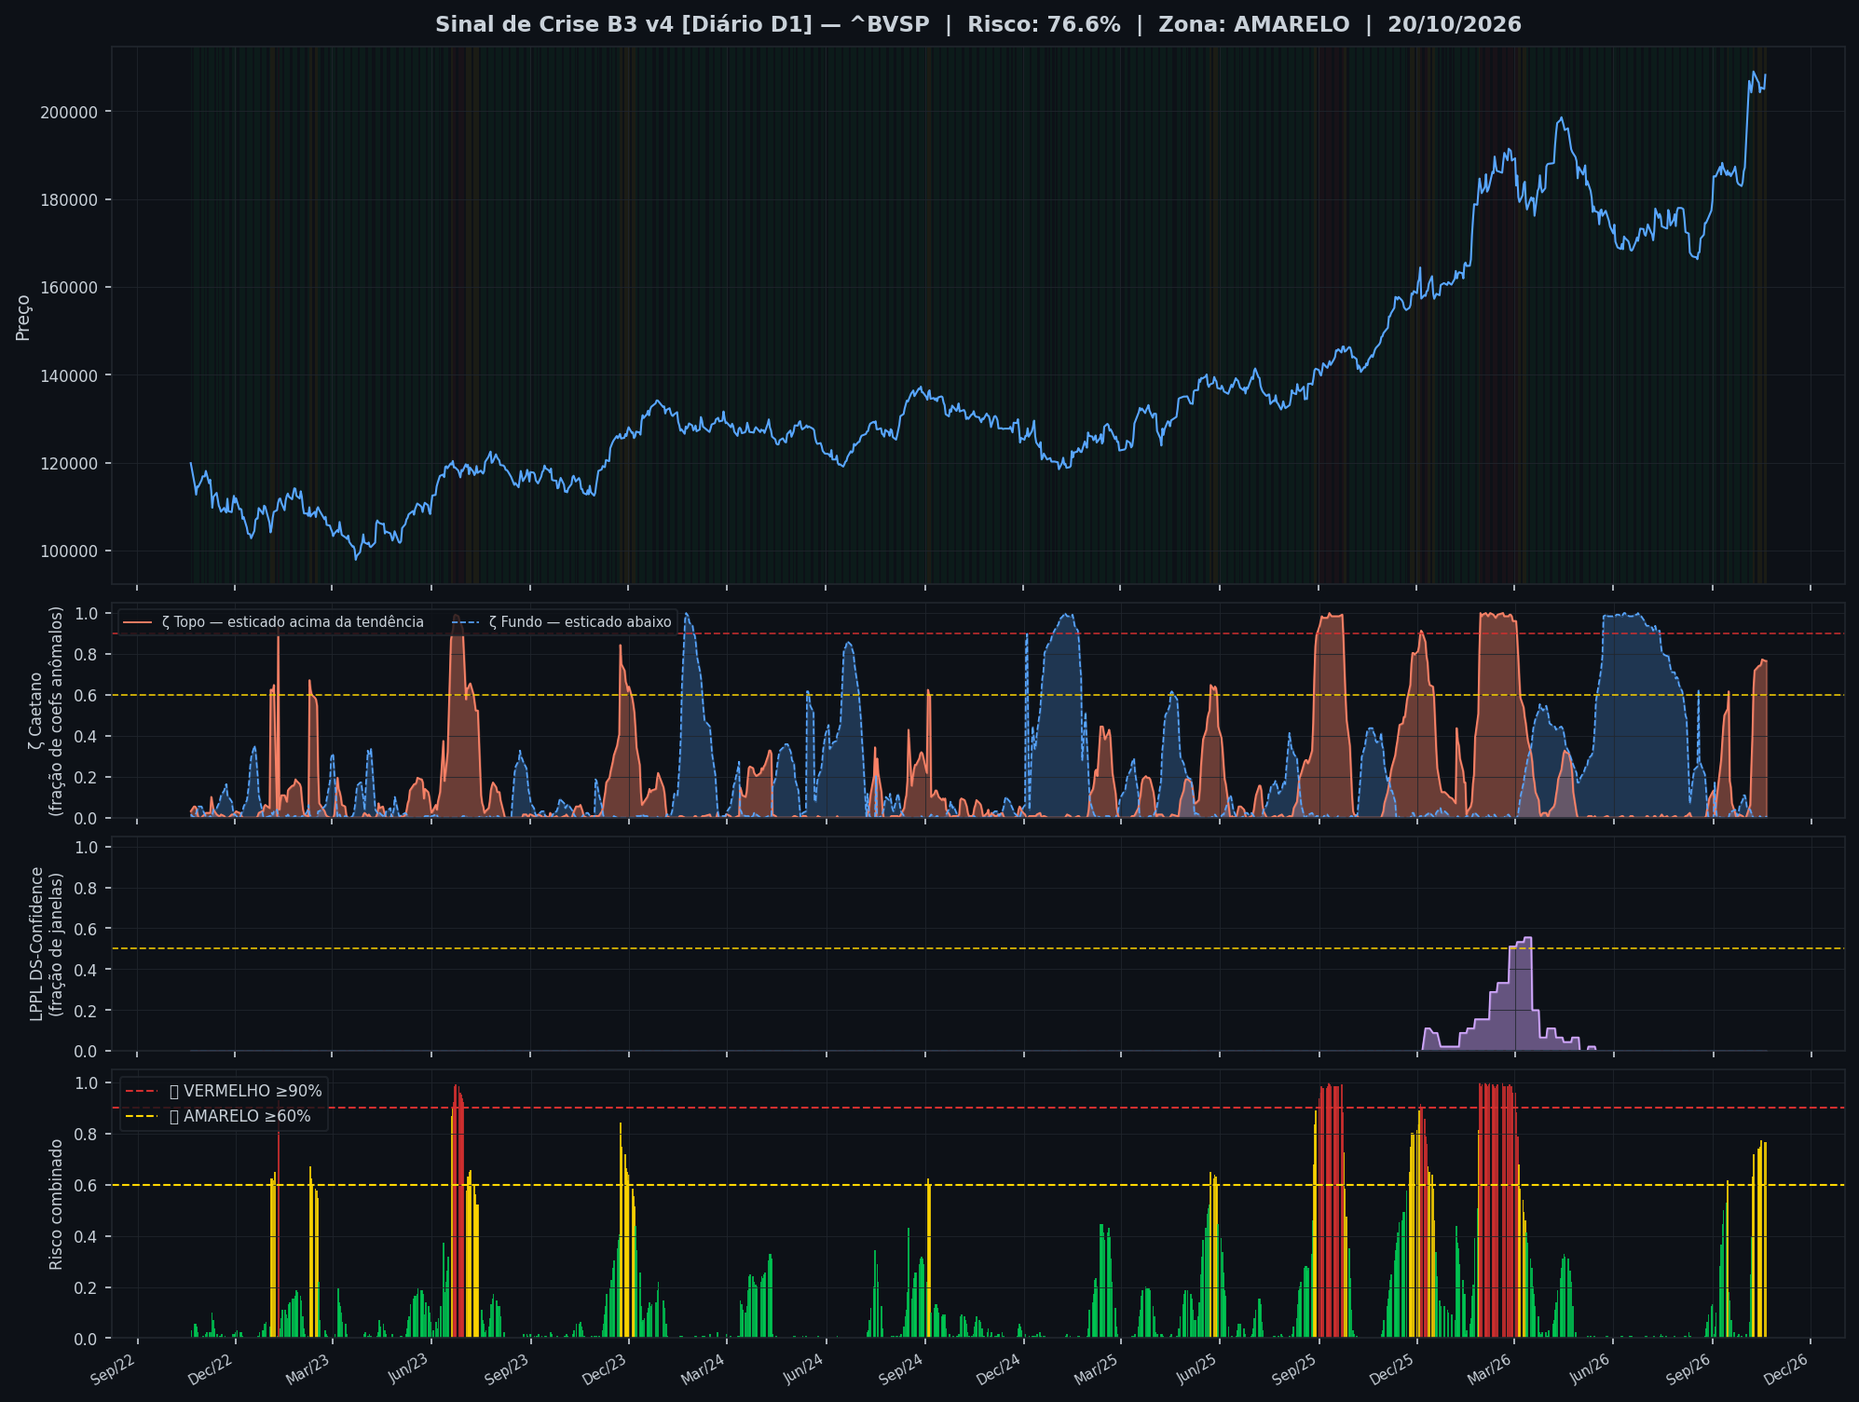
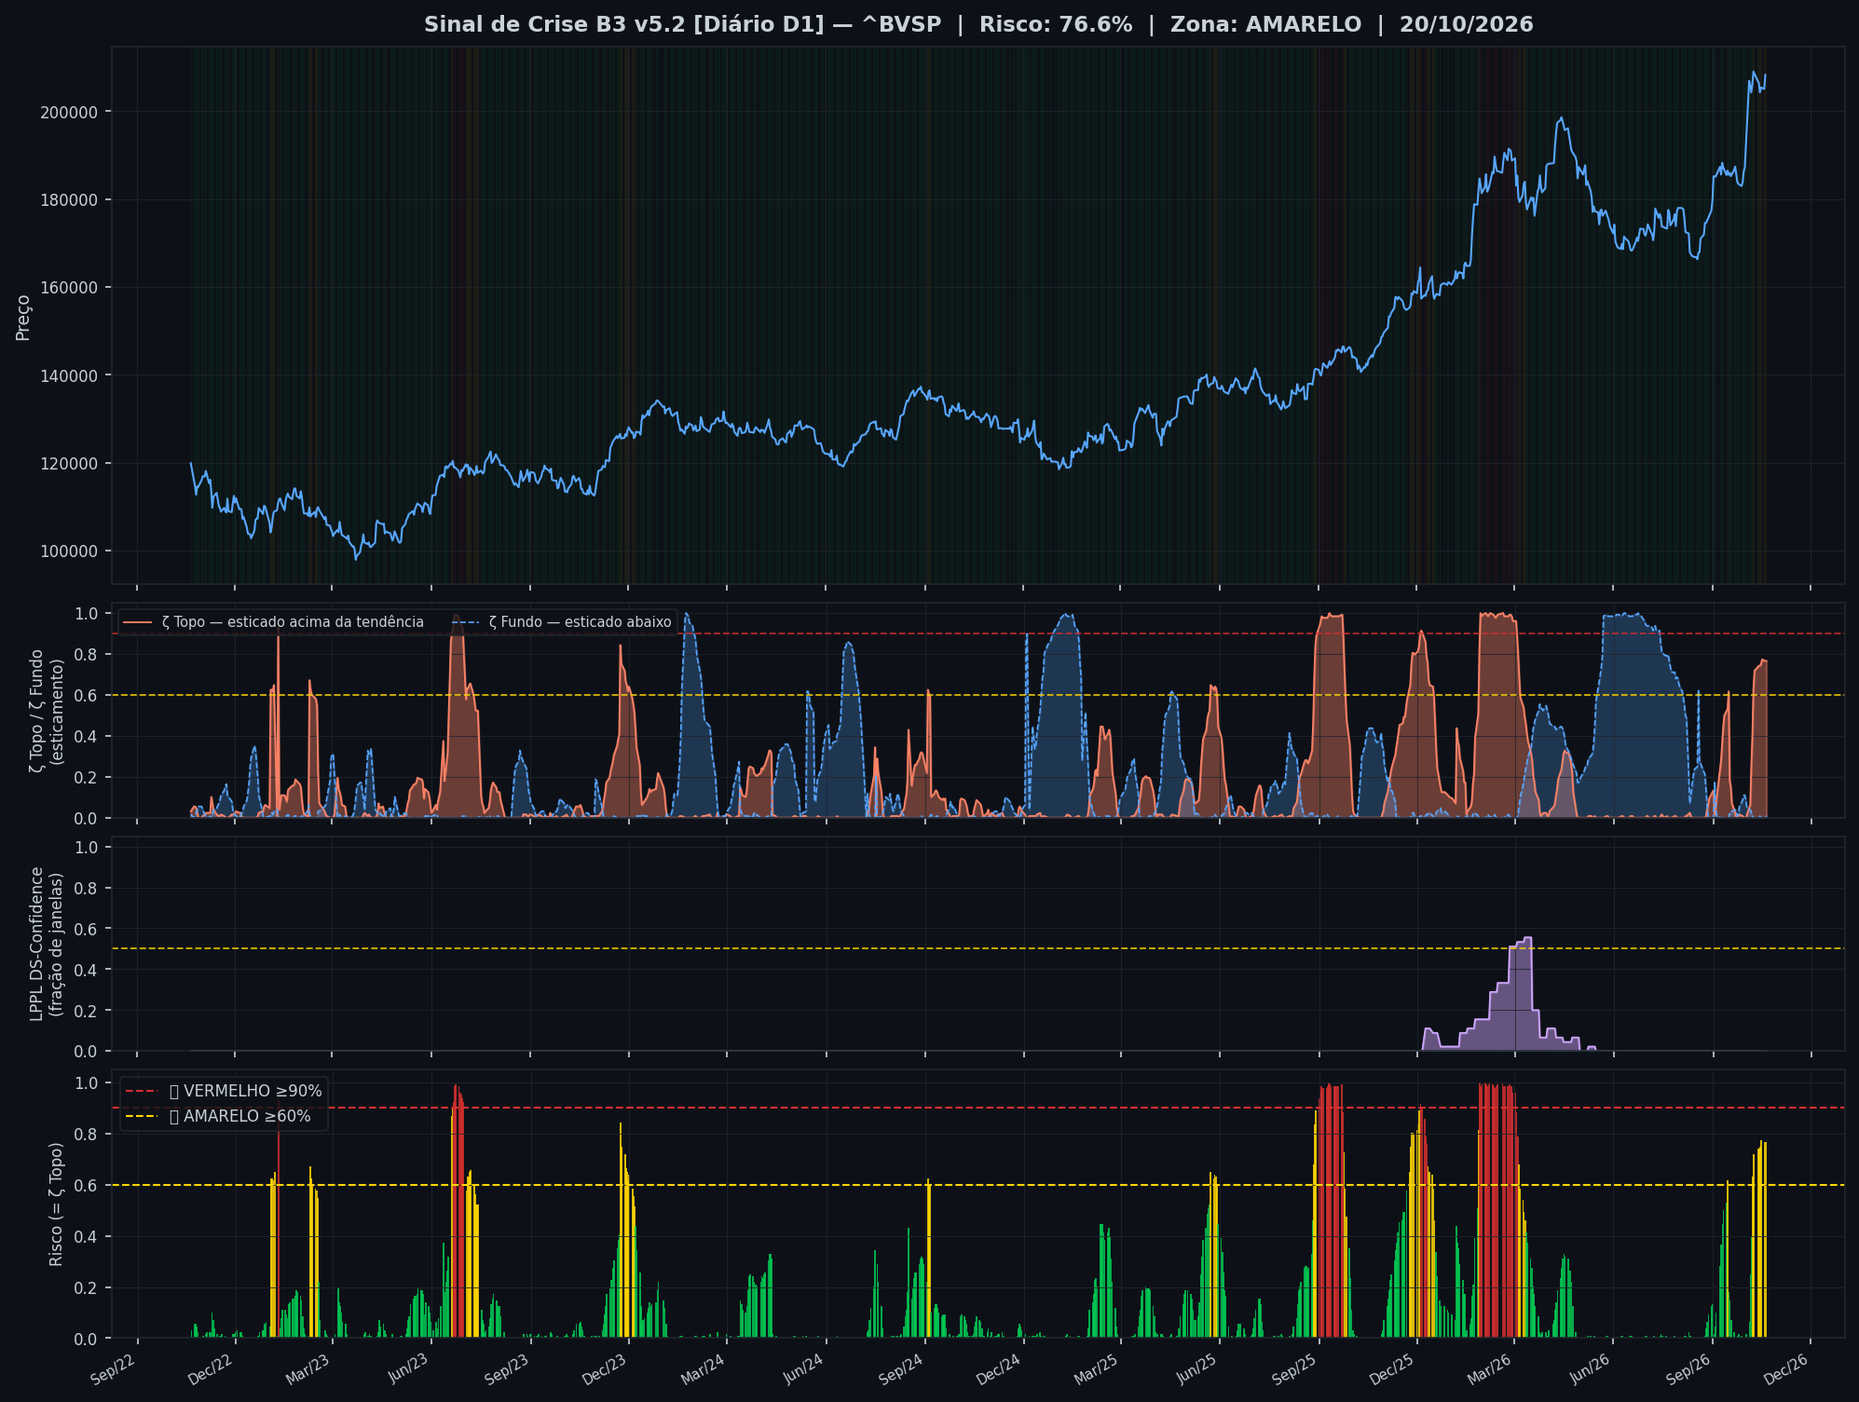
🤖 Auto: Sinal 20/10/2026 20:17

Changed region(s): [[0.4662, 0.0, 0.8391, 0.0312], [0.2175, 0.0, 0.4351, 0.0312], [0.0, 0.4684, 0.0311, 0.5621]]

diff --git a/content/metodologia.md b/content/metodologia.md
@@ -3,99 +3,169 @@ title: Metodologia
 tags: [metodologia]
 ---
 
-# 📖 Metodologia — v5.1
+# 📖 Metodologia — v5.2
 
-## IMA Wavelet (Caetano)
+> [!abstract] Em uma frase
+> O Sinal B3 mede **o quanto o Ibovespa está esticado em relação à própria tendência**, olhando ao mesmo tempo para várias escalas de tempo. Esticado para cima é **ζ Topo**; esticado para baixo é **ζ Fundo**. Os momentos úteis para agir não são quando o ζ está alto, e sim **quando ele entra numa faixa ou começa a desinflar**.
 
-O **Índice de Mudanças Abruptas** segue Caetano & Yoneyama
-(Physica-A 383, 2007, 519-526; livro *Mudanças Abruptas no Mercado
-Financeiro*, Érica, 2013): a série de preços passa por detrending duplo
-(tendência log-linear + componente cosseno) e o ruído residual é
-decomposto pela **Transformada Wavelet Contínua com Chapéu Mexicano**.
-O índice segue o artigo de 2009: ζ(t) = n(t)/N — a fração dos
-coeficientes wavelet (normalizados por escala, 32 escalas × 4 barras)
-que ultrapassam o corte de 0,8σ na faixa mais recente. A escala é
-**absoluta**: ζ=0,90 tem o mesmo significado hoje e daqui a dois anos.
+> [!warning] Antes de tudo
+> Nada aqui é recomendação de investimento. São **estatísticas de 26 anos de Ibovespa** (2000–2026) que mostram em que situações as chances ficaram historicamente a favor ou contra. Nenhuma situação tem 100% de acerto, e o passado não garante o futuro. Use como **filtro de contexto** para o seu método, com stop e gestão de risco.
 
-**Leitura correta (v5.1).** Na borda direita da série — que é o que um
-sinal em tempo real enxerga — o coeficiente do Chapéu Mexicano é positivo
-quando o preço termina *acima* da tendência. Por isso o ζ publicado
-(coeficientes positivos) mede **esticamento acima da tendência**: sobe em
-altas fortes e cai em quedas. Exemplo real: a alta de 187 mil para 209 mil
-pontos em out/2026 levou o ζ de 2% para 77%. Ele é um indicador de **risco
-de reversão de topo**, não de "queda em curso".
+---
 
-Validação: replica o Kruskal-Wallis do artigo em 2003–2008
-(p=0,007/0,002) — topos com ζ≥0,90 precederam quedas maiores e mais
-longas; em 2015–2025, AUC causal 0,58 contra 0,50 do motor anterior.
-Não serve para cravar a data do crash (teste de Molchan negativo).
+## 1. Como o modelo funciona (sem matemática)
 
-O espectrograma histórico (página de gráficos) é calculado com a série
-inteira, ou seja, *com dados futuros*: ali cada data é vista do meio da
-janela. O ζ em tempo real, na borda, concorda só parcialmente com ele
-(correlação ~0,4 em simulação) — não compare os dois diretamente.
+Imagine o gráfico do Ibovespa dos últimos 252 pregões (um ano).
 
-## LPPL DS-Confidence (Sornette)
+**Passo 1 — tirar a tendência.** O modelo traça a curva que melhor descreve a direção do último ano (uma tendência exponencial) e um ciclo lento por cima dela. O que sobra é o **resíduo**: quanto o preço está acima ou abaixo do "caminho normal".
 
-Bolhas especulativas seguem a **Log-Periodic Power Law** de Sornette:
-crescimento super-exponencial com oscilações log-periódicas acelerando
-rumo ao tempo crítico *tc*. A v4 implementa o indicador de confiança do
-**Financial Crisis Observatory** (ETH-Zurich):
+**Passo 2 — olhar o resíduo com 32 lupas.** A *transformada wavelet* (com a função **Chapéu Mexicano**, como no método do Prof. Caetano) funciona como um conjunto de lupas de tamanhos diferentes: algumas enxergam movimentos de poucos dias, outras de várias semanas. Cada lupa responde a uma pergunta: *"na minha escala, o preço de agora está anormalmente acima ou abaixo da tendência?"*
 
-1. Reformulação de Filimonov & Sornette (2013): parâmetros lineares
-   (A, B, C₁, C₂) resolvidos por mínimos quadrados; otimização apenas
-   em (tc, m, ω).
-2. Ajuste em **45 janelas** (60 a 500 pregões, passo de 10) terminando na
-   mesma data (eram 10 até a v5.0, o que fazia a confiança andar em degraus
-   de 10%).
-3. Cada ajuste só é aceito se passar nos filtros de qualificação:
-   0.05 < m < 0.95 · 6 < ω < 13 · tc plausível ·
-   ≥ 2.5 oscilações · damping ≥ 0.5 · SSE < 60% do ajuste linear
-   (o modelo precisa explicar mais que uma simples tendência).
-4. **Confiança = fração de janelas com ajuste válido**, separada pelo
-   sinal de B: **bolha** (B < 0, alta super-exponencial → risco de crash) e
-   **antibolha** (B > 0, queda super-exponencial → risco de repique). O
-   mesmo ajuste serve aos dois, como no DS LPPLS do FCO.
+**Passo 3 — contar quantas lupas concordam.** O **ζ (zeta)** é simplesmente a **porcentagem das lupas** que, nos últimos 4 pregões, enxergam o preço esticado além de um limite (0,8 desvio):
 
-Diferente da v3 (que media o número de oscilações de um único fit e
-saturava em ~87% em qualquer tendência), a confiança v4 fica em ~0%
-em séries sem estrutura de bolha e sobe apenas quando várias escalas
-concordam.
+- **ζ Topo** = % das lupas que veem o preço **esticado para cima**.
+- **ζ Fundo** = % das lupas que veem o preço **esticado para baixo**.
 
-## Sinal combinado e zonas
+ζ Topo = 90% quer dizer que **quase todas as escalas** concordam: o preço subiu demais, rápido demais, em relação à tendência. É a fórmula do artigo de Caetano & Yoneyama (2009): ζ = n/N.
 
-Na v5.1 o risco é o próprio ζ Topo, tanto no diário quanto no intraday.
-A média ponderada antiga (60% ζ + 40% LPPL) foi abandonada: o LPPL fica em
-0% na maior parte do tempo, então o risco diário nunca passava de 60% e o
-🔴 era matematicamente inalcançável. O LPPL continua publicado como
-evidência complementar de bolha. As zonas usam
-**histerese**: entra em 🟡/🔴 ao cruzar o limiar de entrada e só sai ao
-cruzar o de saída (10 p.p. abaixo), eliminando o flip-flop diário.
+> [!example] Exemplo real
+> Em outubro de 2026 o Ibovespa foi de 187 mil para 209 mil pontos em poucos dias. O ζ Topo saiu de 2% para 77%: a maioria das escalas passou a enxergar o preço muito acima da tendência.
 
-## Backtest e calibração
+### O LPPL (Prof. Sornette)
 
-Backtest 15y do ^BVSP (calibrado em —):
+É um segundo modelo, independente. Procura o **formato** de bolha: subida que acelera cada vez mais (super-exponencial), com oscilações que ficam mais rápidas. Ele testa 45 janelas de tempo diferentes (de 60 a 500 pregões) e mede **em quantas delas** o formato de bolha aparece:
 
-| Métrica | 🟡 AMARELO | 🔴 VERMELHO |
-|---|---|---|
-| Limiar de entrada (histerese −10 p.p. na saída) | 60% | 90% |
-| Crises detectadas | —/— | —/— |
-| Falsos alarmes/ano | — | — |
-| Antecedência média | — dias | — dias |
+- **LPPL bolha** — alta acelerando (risco de crash).
+- **LPPL antibolha** — queda acelerando (risco de repique forte).
 
-Pesos em uso: **100% ζ + 0% LPPL**.
+Abaixo de ~30% é ruído normal (mesmo séries aleatórias chegam a 20%). Acima de 50% é evidência forte. O LPPL ainda não tem estatística própria de longo prazo; por isso é exibido como **informação complementar** e não define a zona.
+
+---
+
+## 2. O que 26 anos de dados mostram
+
+Estudo com **6.370 pregões** (2000–2026). O ζ foi calculado **como teria sido visto em tempo real**, ou seja, só com os dados disponíveis em cada dia. Para cada situação, medimos o que o Ibovespa fez **depois**.
+
+**A referência (um dia qualquer):**
+
+| Horizonte | Subiu | Retorno mediano | Caiu 5%+ em algum momento | Subiu 5%+ em algum momento |
+|---|---|---|---|---|
+| 20 pregões (~1 mês) | 56% | +1,1% | 31% | 41% |
+| 60 pregões (~3 meses) | 60% | +3,3% | 52% | 66% |
+
+**As situações que fizeram diferença nos dois períodos testados (2000–2014 e 2015–2026):**
+
+| Situação | O que aconteceu depois | vs. referência | Confiança |
+|---|---|---|---|
+| 🚀 **ζ Topo entra na faixa 30–60%** | Subiu em **68%** das vezes em 60 pregões; subiu 5%+ em **75%** | 60% / 66% | ⭐⭐⭐ (105 casos) |
+| 📉 **ζ Topo desinfla** (cai abaixo de 45% depois de passar de 60%) | Caiu 5%+ em **39%** das vezes em 20 pregões; **60%** em 60 pregões | 31% / 52% | ⭐⭐ (56 casos) |
+| 📉 **ζ Topo desinfla do 🔴** (cai abaixo de 75% depois de passar de 90%) | Caiu 5%+ em **45%** das vezes em 20 pregões | 31% | ⭐⭐ (31 casos) |
+| 🔪 **ζ Fundo dispara** (passa de 90%) | Subiu só **42%** das vezes em 60 pregões; retorno mediano **−1,9%** | 60% / +3,3% | ⭐⭐⭐ (31 casos) |
+| 🌱 **ζ Fundo desinfla** (cai abaixo de 75% depois de passar de 90%) | Subiu em **66%** das vezes em 60 pregões; retorno mediano **+4,8%** | 60% / +3,3% | ⭐ (32 casos) |
+| 🔴 **ζ Topo ≥ 90%** (estar na zona) | Chance de subir mais 5% em 20 pregões cai para **32%** | 41% | ⭐ |
+
+> [!info]- Como ler as estrelas (clique para expandir)
+> Cada situação foi comparada com **5.000 sorteios de datas aleatórias**. ⭐⭐⭐ = no período completo, o resultado ficou entre os **5%** mais extremos dos sorteios, e a direção se repetiu nos dois períodos. ⭐⭐ = entre os **11%** mais extremos, mesma direção nos dois períodos. ⭐ = mesma direção nos dois períodos, mas dentro do que o acaso explica. Como testamos dezenas de combinações, algumas parecem boas por acaso; por isso só entram aqui as que se repetiram nas duas metades da história.
+
+---
+
+## 3. Como usar na prática
+
+Pense no ζ como um **semáforo de contexto** para o seu método, não como um botão de compra e venda.
+
+### Do lado da compra
+
+> [!success] 🚀 Momento de força — ζ Topo subindo para 30–60%
+> O preço começou a se afastar da tendência para cima, mas ainda não esticou demais. **Historicamente, a alta continuou** (68% subiu em 3 meses). Favorece **manter ou montar posição comprada** e dar espaço ao movimento.
+
+> [!tip] 🌱 Fundo se desfazendo — ζ Fundo caindo de volta abaixo de 75%
+> Depois de uma queda forte (ζ Fundo ≥ 90%), o esticamento para baixo começa a desaparecer. É **o melhor momento estatístico para comprar depois de uma queda**: 66% subiu em 3 meses, contra 42% de quem comprou no auge do pânico. A vantagem sobre um dia qualquer é pequena — o ganho real é **evitar comprar cedo demais**.
+
+> [!danger] 🔪 Não segure a faca — ζ Fundo disparando (≥ 90%)
+> Parece barato, mas **historicamente a queda continuou**: só 42% subiu em 3 meses, e metade das vezes ainda caiu mais 5% no mês seguinte. **Espere o ζ Fundo começar a cair.**
+
+### Do lado da proteção / venda
+
+> [!warning] 🟡🔴 Esticado — ζ Topo ≥ 60%
+> O preço está bem acima da tendência. **Isso, sozinho, não é sinal de queda**: o índice continuou subindo tanto quanto num dia qualquer. Mas o **potencial de alta encolhe** (no 🔴, chance de subir mais 5% cai de 41% para 32%). Bom momento para **não aumentar posição, subir o stop e realizar parte do lucro**.
+
+> [!failure] 📉 Esticamento desinflando — ζ Topo caindo
+> **Este é o momento de risco.** Quando o ζ Topo volta para baixo de 45% depois de ter passado de 60% (ou abaixo de 75% depois de 90%), a chance de uma queda de 5%+ no mês seguinte sobe de 31% para 39–45%. Favorece **reduzir exposição comprada ou proteger** (hedge, stop mais curto).
+
+### Neutro
+
+> [!note] 😐 Tudo baixo — ζ Topo e ζ Fundo abaixo de 30%
+> Sem vantagem estatística para nenhum lado. **Siga o seu método normal.**
+
+### Resumo de bolso
+
+| Você vê | Estatística a favor de |
+|---|---|
+| ζ Topo **subindo** para 30–60% | 🟢 manter / comprar |
+| ζ Topo ≥ 60% | 🟡 não aumentar, subir stop, realizar parcial |
+| ζ Topo **caindo** de volta | 🟠 proteger / reduzir |
+| ζ Fundo **disparando** ≥ 90% | ⛔ não comprar ainda |
+| ζ Fundo **caindo** de volta | 🟢 comprar com stop |
+| Tudo abaixo de 30% | ⚪ neutro |
+
+> [!important] Horizonte
+> Estas estatísticas são do **diário (D1)** e valem para **semanas a meses** (20–60 pregões). Para day trade no WIN, use como **viés do dia** (a favor ou contra a direção principal), não como gatilho de entrada. O ζ do intraday (15 min) ainda **não foi validado estatisticamente**.
+
+---
+
+## 4. O que o modelo NÃO faz
+
+- **Não prevê a data do crash.** O ζ alto não diz "vai cair amanhã". O teste de antecipação (Molchan) foi negativo.
+- **Não acerta sempre.** Em 3 de cada 10 vezes, a situação "favorável" deu errado.
+- **Não substitui stop.** As quedas que vêm depois de um ζ Topo desinflando podem ser rápidas.
+- **Não enxerga notícia.** Eventos externos (política, juros, exterior) movem o mercado sem aviso espectral.
+
+---
+
+## 5. As zonas do sinal
+
+| Zona | Entra quando | Sai quando | Significado |
+|---|---|---|---|
+| 🟢 VERDE | — | — | Preço na faixa normal em torno da tendência |
+| 🟡 AMARELO | ζ Topo ≥ 60% | ζ Topo < 45% | Preço esticado para cima |
+| 🔴 VERMELHO | ζ Topo ≥ 90% | ζ Topo < 75% | Esticamento extremo (limiar de Caetano) |
+
+As zonas têm **histerese** (entram num nível e saem em outro mais baixo) para não ficar trocando todo dia. **Atenção:** pela estatística acima, **a saída do 🟡/🔴 é mais importante que a entrada** — é quando o esticamento desinfla que o risco aparece.
+
+---
+
+## 6. Detalhes técnicos
+
+> [!info]- IMA Wavelet — parâmetros (clique para expandir)
+> - Janela de 252 pregões (D1) ou 252 barras de 15 min (intraday).
+> - Pré-processamento: tendência exponencial + componente cosseno (Caetano & Yoneyama 2009, eqs. 7-8).
+> - CWT Chapéu Mexicano, escalas 1 a 32; normalização **por escala** (MAD → desvios).
+> - ζ = fração dos 128 coeficientes (32 escalas × 4 barras) além de ±0,8σ.
+> - Validação: replica o Kruskal-Wallis do artigo em 2003–2008 (p = 0,007/0,002); AUC causal 0,58 em 2015–2025.
+> - Na borda direita (tempo real), o coeficiente positivo indica preço **acima** da tendência — por isso ζ Topo mede esticamento para cima.
+> - O espectrograma histórico é calculado com a série inteira (vê o futuro); o ζ em tempo real concorda só parcialmente com ele.
+
+> [!info]- LPPL DS-Confidence — parâmetros (clique para expandir)
+> - Reformulação de Filimonov & Sornette (2013): A, B, C₁, C₂ por mínimos quadrados; otimização só em (tc, m, ω).
+> - 45 janelas (60 a 500 pregões, passo 10) terminando na mesma data.
+> - Filtros: 0,05 < m < 0,95 · 6 < ω < 13 · tc até min(0,4·L, 120) pregões à frente · ≥ 2,5 oscilações · amortecimento ≥ 0,5 · erro < 60% do de uma reta.
+> - Confiança = fração de janelas válidas, separada pelo sinal de B: **bolha** (B < 0) e **antibolha** (B > 0).
+
+> [!info]- Histórico de versões (clique para expandir)
+> - **v5.2** (20/10/2026) — LPPL com 45 janelas e antibolha; estudo estatístico de 26 anos; esta página.
+> - **v5.1** (20/10/2026) — Correções: ζ Topo/Fundo com o significado certo; risco = ζ (antes 60% ζ + 40% LPPL, o que tornava o 🔴 impossível); cache por ativo no multi-ativo; datas do diário (estavam um dia atrasadas).
+> - **v5.0** (15/07/2026) — Motor fiel ao artigo de Caetano (ζ = n/N).
+> - **v4** (07/2026) — LPPL DS-Confidence, histerese, correções de janela.
+
+---
 
 ## Referências
 
-- Caetano, M.A.L.; Yoneyama, T. *Characterizing abrupt changes in the
-  stock prices using a wavelet decomposition method*. Physica-A 383
-  (2007) 519-526.
+- Caetano, M.A.L.; Yoneyama, T. *Characterizing abrupt changes in the stock prices using a wavelet decomposition method*. Physica A 383 (2007) 519–526.
+- Caetano, M.A.L.; Yoneyama, T. *A new indicator of imminent occurrence of drawdown in the stock market*. Physica A 388 (2009) 3563–3571.
 - Caetano, M.A.L. *Mudanças Abruptas no Mercado Financeiro*. Érica, 2013.
 - Sornette, D. *Why Stock Markets Crash*. Princeton, 2003.
-- Filimonov, V.; Sornette, D. *A stable and robust calibration scheme
-  of the log-periodic power law model*. Physica-A 392 (2013) 3698-3707.
-- Sornette, D. et al. *Real-time prediction of Bitcoin bubble crashes*
-  / FCO Cockpit, ETH-Zurich.
+- Filimonov, V.; Sornette, D. *A stable and robust calibration scheme of the log-periodic power law model*. Physica A 392 (2013) 3698–3707.
 
-> [!quote]- Aviso
-> Estudo acadêmico. Não constitui recomendação de investimento.
+> [!quote] Aviso
+> Estudo acadêmico e estatístico. Não constitui recomendação de investimento. Resultados passados não garantem resultados futuros.

diff --git a/content/diario/2026-10-20.md b/content/diario/2026-10-20.md
@@ -87,7 +87,7 @@ tags: [diario]
 
 ![Monitor multi-ativo](../graficos/multi_diario.png)
 
-*Página atualizada em 20/10/2026 19:24 BRT (leitura da barra de 2026-10-20 BRT).*
+*Página atualizada em 20/10/2026 20:17 BRT (leitura da barra de 2026-10-20 BRT).*
 
 > [!info]- Como interpretar (clique para expandir)
 > - **ζ Topo**: fração dos coeficientes wavelet (Chapéu Mexicano, Caetano & Yoneyama 2009) acima de +0,8σ na faixa mais recente. Na ponta da série isso acontece quando o preço termina **esticado acima da tendência** em muitas escalas — euforia/topo. ζ=0,90 é o limiar de Caetano: quedas que partiram desse padrão foram mais fundas. **É risco de reversão, não data do crash.**

diff --git a/content/index.md b/content/index.md
@@ -8,7 +8,7 @@ tags: [home]
 
 Monitoramento diário e intraday do Ibovespa — **IMA Wavelet** (Prof. Marco Antonio Leonel Caetano, ITA/INSPER) + **LPPL DS-Confidence** (Prof. Didier Sornette, ETH-Zurich).
 
-*Última atualização: 20/10/2026 19:24 BRT · ^BVSP · Diário D1 · v4*
+*Última atualização: 20/10/2026 20:17 BRT · ^BVSP · Diário D1 · v4*
 
 > [!warning] 🟡 **AMARELO** — Risco 77% · ＝ +0 p.p. vs leitura anterior
 > `███████████████░░░░░`
